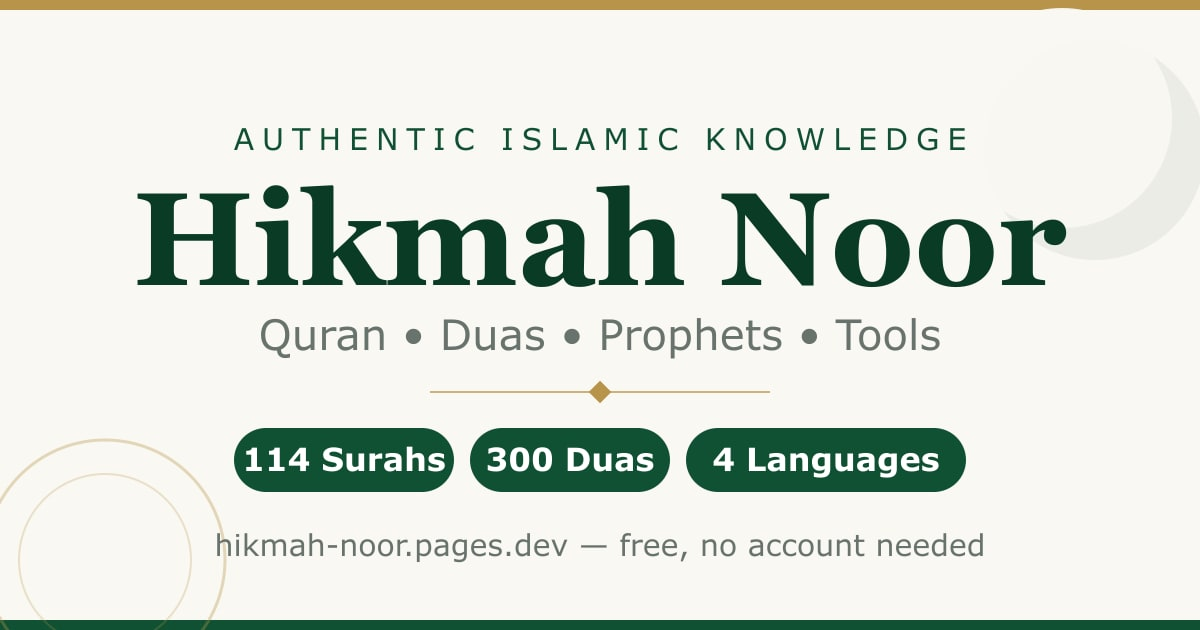
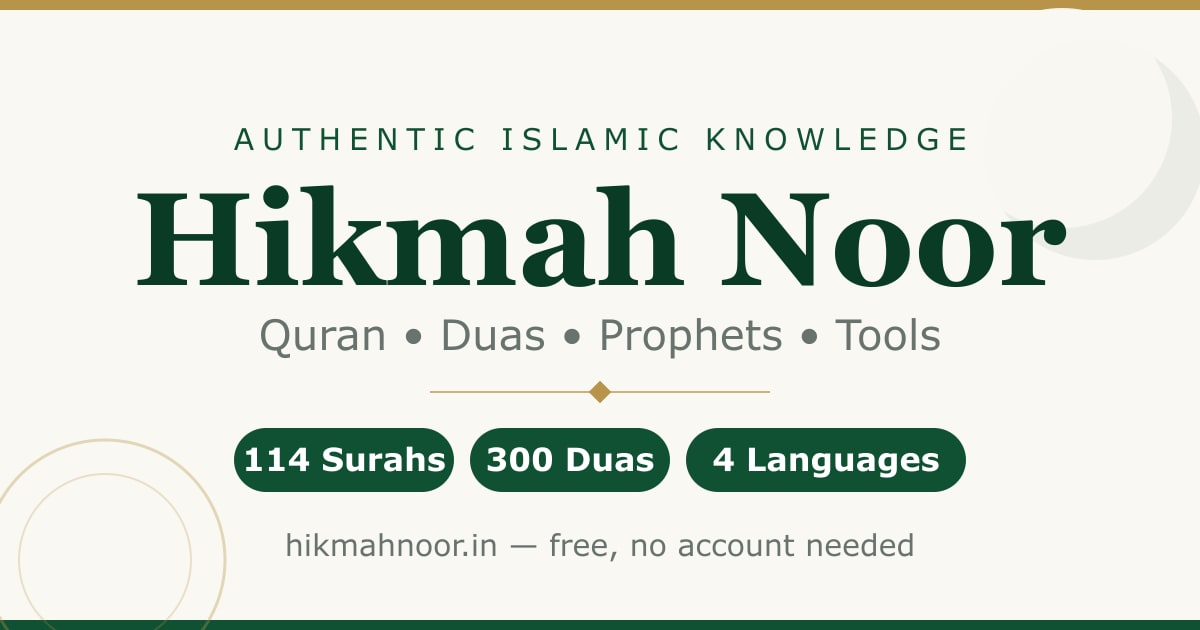
Launch on hikmahnoor.in: domain swap, hello@ inbox, OG rebuild, canonical redirects

Changed region(s): [[0.185, 0.8444, 0.8325, 0.9048]]

diff --git a/public/sw.js b/public/sw.js
@@ -1,10 +1,10 @@
-/* Hikmah Noor service worker — offline-first reading (v2).
+/* Hikmah Noor service worker — offline-first reading (v3: new domain).
  * Same-origin GET requests are cached at runtime; navigations fall back
  * to /offline/ when the network fails. Third-party (fonts, audio, APIs)
  * is left alone so it never breaks the shell.
  * /api/* is NEVER cached (notices, search must always be fresh).
  */
-const V = 'hn-v2';
+const V = 'hn-v3';
 const CORE = ['/', '/offline/', '/favicon.svg'];
 
 self.addEventListener('install', (e) => {

diff --git a/functions/_middleware.js b/functions/_middleware.js
@@ -1,0 +1,12 @@
+// Canonical-host redirect: www + legacy pages.dev → apex (hikmahnoor.in).
+// Preview deployments (*.hikmah-noor.pages.dev hashes) pass through untouched.
+const APEX = 'https://hikmahnoor.in';
+const LEGACY_HOSTS = new Set(['www.hikmahnoor.in', 'hikmah-noor.pages.dev']);
+
+export async function onRequest(context) {
+  const url = new URL(context.request.url);
+  if (LEGACY_HOSTS.has(url.hostname)) {
+    return Response.redirect(APEX + url.pathname + url.search, 301);
+  }
+  return context.next();
+}

diff --git a/TRANSLATION-CREDITS.md b/TRANSLATION-CREDITS.md
@@ -23,4 +23,4 @@ both via EveryAyah. Hindi uses the visitor's own device voice reader. Spoken
 translation wording may differ slightly from the displayed text.
 
 If any rights-holder wants a different attribution or removal, contact
-hello@hikmah-noor.pages.dev and we will act promptly.
+hello@hikmahnoor.in and we will act promptly.
